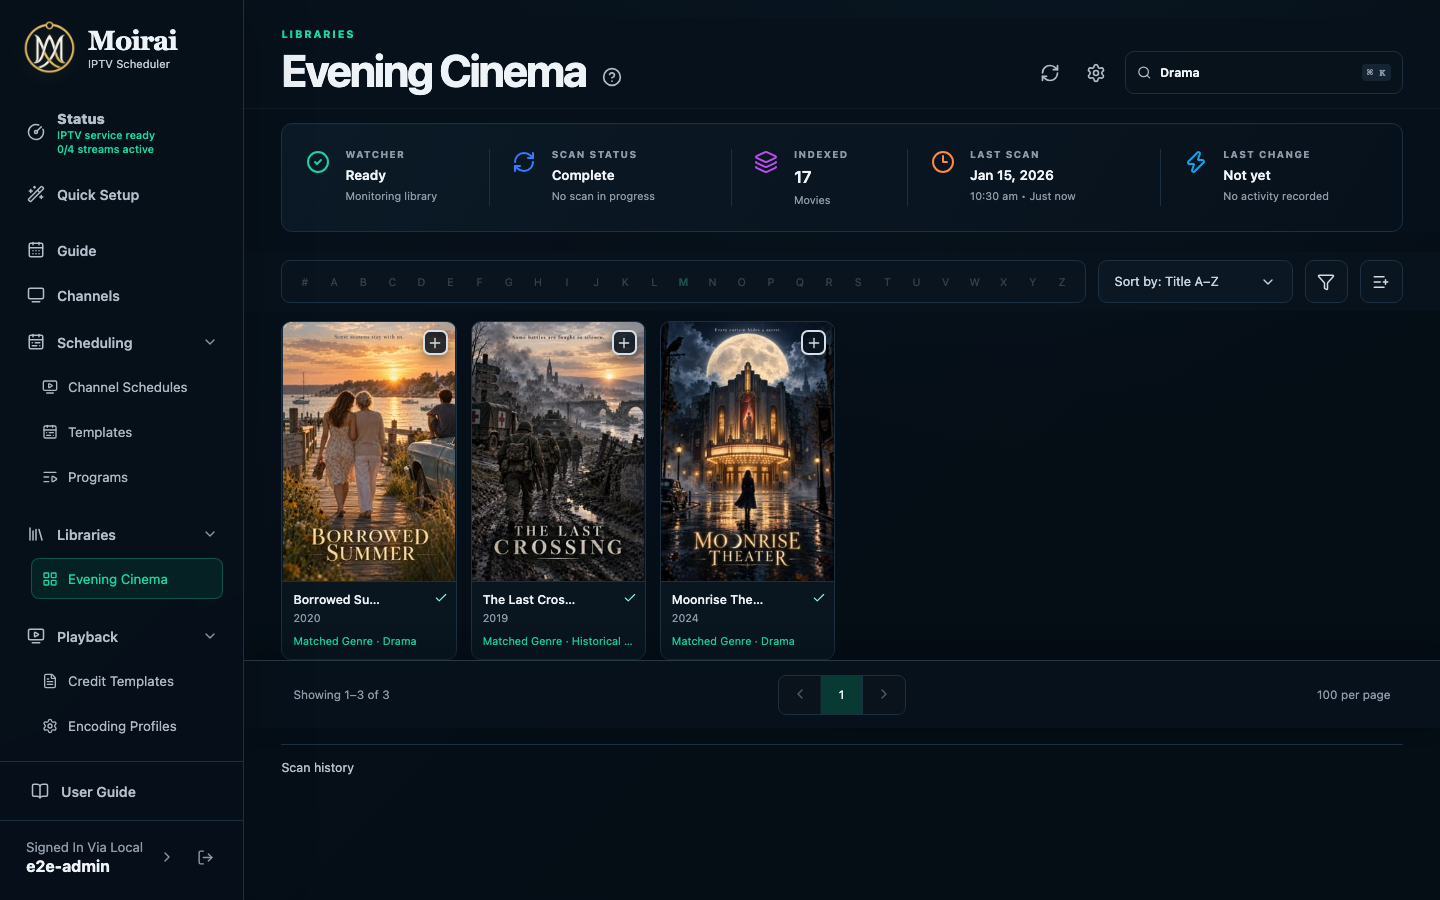
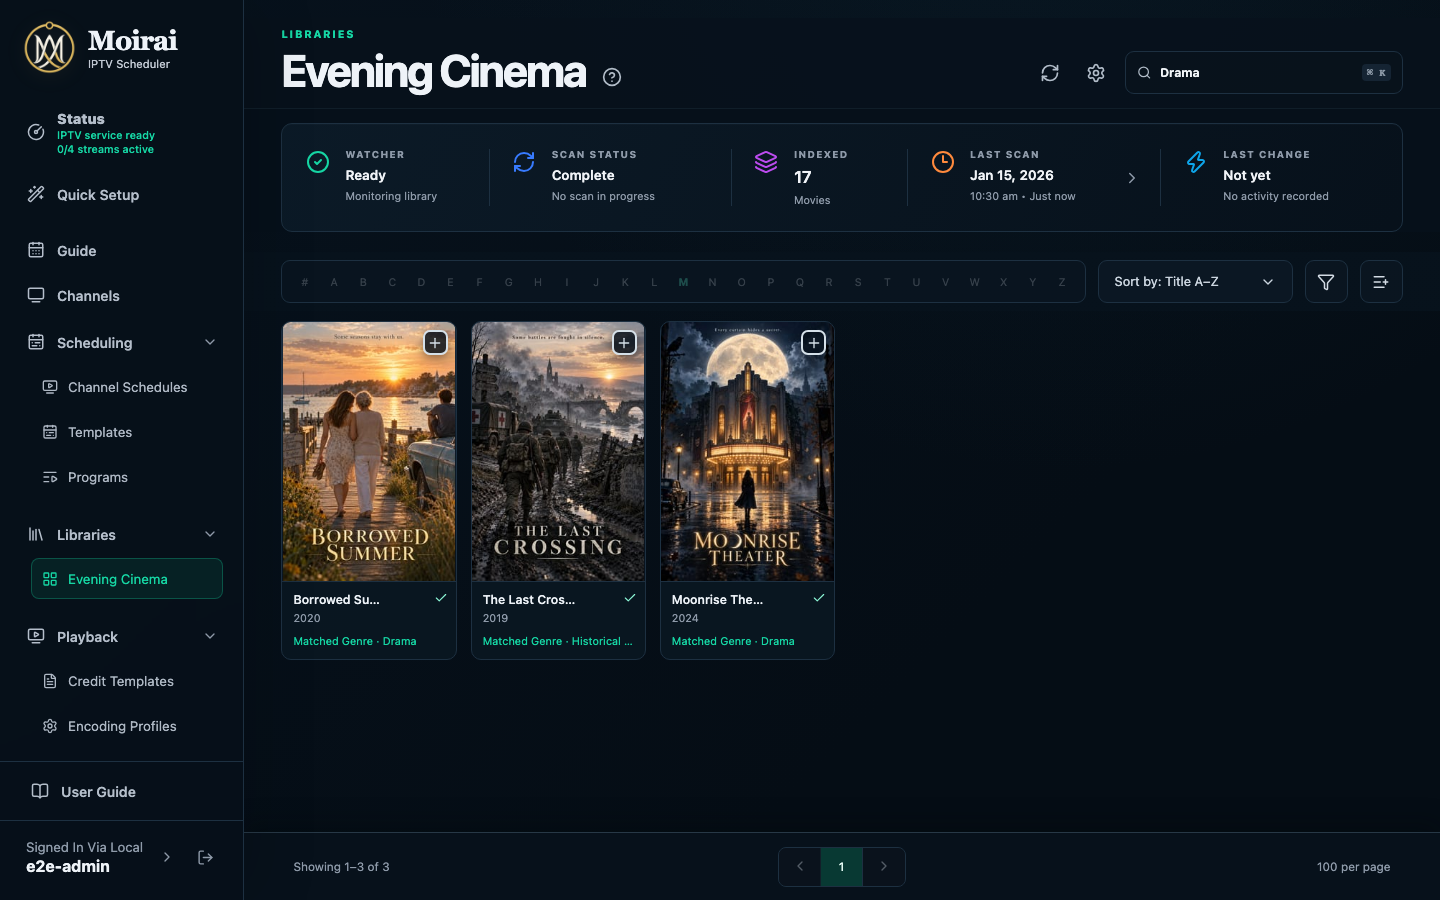
Moved scan history into dialog behind scan status

diff --git a/apps/web/src/views/LibraryPage.vue b/apps/web/src/views/LibraryPage.vue
@@ -61,7 +61,7 @@ import {
 } from '../catalog-virtualization';
 import LoadingState from '../components/LoadingState.vue';
 import ActionMenu from '../components/ActionMenu.vue';
-import AnimatedDisclosure from '../components/AnimatedDisclosure.vue';
+import LibraryScanHistoryModal from '../components/library/LibraryScanHistoryModal.vue';
 import TransientToast from '../components/TransientToast.vue';
 import LibraryFilterModal from '../components/library/LibraryFilterModal.vue';
 import LibrarySettingsModal from '../components/library/LibrarySettingsModal.vue';
@@ -72,7 +72,6 @@ import {
 	type LibraryFilterDraft,
 } from '../components/library/library-filter';
 import LibraryReconciliationModal from '../components/library/LibraryReconciliationModal.vue';
-import StatusPill from '../components/StatusPill.vue';
 import AddItemsToProgramModal from '../components/programs/AddItemsToProgramModal.vue';
 import ProgramAdditionToast from '../components/programs/ProgramAdditionToast.vue';
 import { liveEvents } from '../live-events';
@@ -87,7 +86,7 @@ const librariesStore = useLibrariesStore();
 const id = computed(() => String(route.params.id));
 const library = ref<Library>();
 const scans = ref<ScanRun[]>([]);
-const scanHistoryOpen = useDisclosureState('library-scan-history', false);
+const scanHistoryOpen = ref(false);
 const filterModalInstance = ref(0);
 const reconciliation = ref<LibraryReconciliation>();
 const genres = ref<MediaGenreFacet[]>([]);
@@ -1132,6 +1131,7 @@ watch(searchText, (value) => {
 });
 watch(id, () => {
 	// Discard actions captured for the previous library before loading the new route.
+	scanHistoryOpen.value = false;
 	resetSelectionToolbar();
 	selectionToolbarMotionActive.value = false;
 	selectedIds.value = [];
@@ -1270,10 +1270,11 @@ onUnmounted(() => {
 					<span class="status-icon"><Layers3 :size="24" /></span>
 					<div><span>Indexed</span><strong>{{ library.itemCount.toLocaleString() }}</strong><small>{{ typeLabel }}</small></div>
 				</div>
-				<div class="status-stat status-last-scan">
+				<button type="button" class="status-stat status-last-scan" aria-label="Last scan: open scan history" aria-haspopup="dialog" @click="scanHistoryOpen = true">
 					<span class="status-icon"><Clock3 :size="24" /></span>
 					<div><span>Last scan</span><strong>{{ formatDate(library.lastScanCompletedAt) }}</strong><small>{{ formatActivityTime(library.lastScanCompletedAt) }}</small></div>
-				</div>
+					<ChevronRight class="status-disclosure" :size="18" aria-hidden="true" />
+				</button>
 				<div class="status-stat status-change">
 					<span class="status-icon"><Zap :size="24" /></span>
 					<div><span>Last change</span><strong>{{ formatDate(library.lastChangeDetectedAt) }}</strong><small>{{ formatActivityTime(library.lastChangeDetectedAt) }}</small></div>
@@ -1408,7 +1409,7 @@ onUnmounted(() => {
 			<span>{{ pagination.pageSize }} per page</span>
 		</footer>
 
-		<AnimatedDisclosure v-model="scanHistoryOpen" class="diagnostics"><template #summary><span>Scan history</span></template><article v-for="run in scans" :key="run.id"><StatusPill :value="run.status" /><span>{{ new Date(run.startedAt).toLocaleString() }}</span><span>{{ run.discoveredCount }} found · {{ run.changedCount }} changed · {{ run.removedCount }} removed</span><ul v-if="run.issues.length"><li v-for="issue in run.issues" :key="`${issue.code}:${issue.path}`">{{ issue.code }} — {{ issue.path ?? issue.message }}</li></ul></article></AnimatedDisclosure>
+		<LibraryScanHistoryModal v-if="scanHistoryOpen" :scans="scans" @close="scanHistoryOpen = false" />
 
 		<LibraryReconciliationModal v-if="showReconciliation && reconciliation" :reconciliation="reconciliation" :busy="reconciliationBusy" @close="showReconciliation = false" @scan="scan" @reconcile="reconcile" />
 		<LibrarySettingsModal v-if="showSettings" :library="library" @close="showSettings = false" @saved="finishSettings" @deleted="finishDeletion" />

diff --git a/tests/e2e/app.spec.ts b/tests/e2e/app.spec.ts
@@ -78,15 +78,14 @@ test('indexes a library and creates a channel', async ({ page }) => {
 	await expect(page.locator('.library-status-panel')).toContainText('Indexed');
 	await expect(page.getByRole('button', { name: 'B', exact: true })).toHaveClass(/active/);
 	await expect(page.locator('.catalog-footer')).toContainText('100 per page');
-	const scanHistoryToggle = page.getByRole('button', { name: 'Scan history' });
-	const firstScanHistoryEntry = page.locator('.diagnostics article').first();
-	await expect(scanHistoryToggle).toHaveAttribute('aria-expanded', 'false');
-	await expect(firstScanHistoryEntry).toBeHidden();
+	const scanHistoryToggle = page.getByRole('button', { name: 'Last scan: open scan history' });
+	const scanHistoryDialog = page.getByRole('dialog', { name: 'Scan history' });
+	await expect(scanHistoryDialog).toBeHidden();
 	await scanHistoryToggle.click();
-	await expect(scanHistoryToggle).toHaveAttribute('aria-expanded', 'true');
-	await expect(firstScanHistoryEntry).toBeVisible();
-	await scanHistoryToggle.click();
-	await expect(firstScanHistoryEntry).toBeHidden();
+	await expect(scanHistoryDialog.locator('article').first()).toBeVisible();
+	await page.keyboard.press('Escape');
+	await expect(scanHistoryDialog).toBeHidden();
+	await expect(scanHistoryToggle).toBeFocused();
 	const syncButton = page.getByRole('button', { name: 'Sync library' });
 	const settingsButton = page.getByRole('button', { name: 'Library settings' });
 	const libraryHeaderSearch = page.getByRole('textbox', { name: new RegExp(`Search ${libraryName}`) });
@@ -756,7 +755,7 @@ test('indexes a library and creates a channel', async ({ page }) => {
 	await expect(page.getByRole('button', { name: 'Add Selected' })).toBeDisabled();
 	await expect(page.locator('.catalog-controls-stack')).toHaveCSS('position', 'sticky');
 	await expect(page.getByRole('toolbar', { name: 'Item selection' })).toHaveCSS('background-color', 'rgb(8, 43, 37)');
-	await expect(page.locator('.catalog-footer')).toHaveCSS('position', 'sticky');
+	await expect(page.locator('.catalog-footer')).toHaveCSS('position', 'fixed');
 	await expect(page.locator('.catalog-footer')).toHaveCSS('border-radius', '0px');
 	const appContentBounds = await page.locator('.app-content').boundingBox();
 	const catalogFooterBounds = await page.locator('.catalog-footer').boundingBox();

diff --git a/tests/e2e/user-documentation.spec.ts b/tests/e2e/user-documentation.spec.ts
@@ -37,6 +37,32 @@ test('captures setup and authentication', async ({ page }) => {
 test('captures libraries and scanning', async ({ page, documentationServer }) => {
 	const { libraryId, mediaRoot } = await seedLibrary(page, documentationServer.directory, true);
 	await capture(page, 'library-catalog.png');
+	const historyTrigger = page.getByRole('button', { name: 'Last scan: open scan history' });
+	await historyTrigger.click();
+	const history = page.getByRole('dialog', { name: 'Scan history' });
+	await expect(history.locator('article').first()).toBeVisible();
+	await capture(page, 'library-scan-history.png');
+	await page.keyboard.press('Escape');
+	await expect(history).toBeHidden();
+	await expect(historyTrigger).toBeFocused();
+	await historyTrigger.press('Enter');
+	await history.getByRole('button', { name: 'Close scan history' }).click();
+	await expect(history).toBeHidden();
+
+	// The footer stays at the viewport edge at either end of the catalog on desktop and mobile.
+	for (const viewport of [{ width: 1440, height: 900 }, { width: 390, height: 844 }]) {
+		await page.setViewportSize(viewport);
+		for (const bottom of [false, true]) {
+			await page.evaluate((atBottom) => window.scrollTo({ top: atBottom ? document.body.scrollHeight : 0, behavior: 'instant' }), bottom);
+			await expect.poll(async () => {
+				const bounds = await page.locator('.catalog-footer').boundingBox();
+				return bounds ? Math.abs(bounds.y + bounds.height - viewport.height) : Infinity;
+			}).toBeLessThan(2);
+			await expect(page.getByRole('button', { name: 'Next page', exact: true })).toBeVisible();
+		}
+	}
+	await page.setViewportSize({ width: 1440, height: 900 });
+
 	await page.goto(`/libraries/${libraryId}?q=Drama`);
 	await expect(page.locator('.media-card-match').first()).toContainText('Genre');
 	await capture(page, 'library-search.png');

diff --git a/apps/web/src/components/library/LibraryScanHistoryModal.vue b/apps/web/src/components/library/LibraryScanHistoryModal.vue
@@ -1,0 +1,35 @@
+<script setup lang="ts">
+import type { ScanRun } from '@moirai/shared';
+import { useAnimatedDismissal } from '../../motion';
+import ResourceEditorHeader from '../ResourceEditorHeader.vue';
+import StatusPill from '../StatusPill.vue';
+
+defineProps<{ scans: ScanRun[] }>();
+const emit = defineEmits<{ close: [] }>();
+const { visible, requestClose, finishClose } = useAnimatedDismissal(() => emit('close'));
+</script>
+
+<template>
+	<Transition name="moirai-overlay" appear @after-leave="finishClose">
+		<div v-show="visible" class="moirai-dialog-backdrop" :inert="!visible" :aria-hidden="!visible" @click.self="requestClose">
+			<section v-modal-focus="{ escape: requestClose }" class="moirai-dialog resource-editor-modal library-scan-history-modal" role="dialog" aria-modal="true" aria-labelledby="scan-history-title">
+				<ResourceEditorHeader close-label="Close scan history" @close="requestClose">
+					<h2 id="scan-history-title">Scan history</h2>
+				</ResourceEditorHeader>
+				<div class="resource-editor-scroll">
+					<div v-if="scans.length" class="diagnostics">
+						<article v-for="run in scans" :key="run.id">
+							<StatusPill :value="run.status" />
+							<span>{{ new Date(run.startedAt).toLocaleString() }}</span>
+							<span>{{ run.discoveredCount }} found · {{ run.changedCount }} changed · {{ run.removedCount }} removed</span>
+							<ul v-if="run.issues.length">
+								<li v-for="issue in run.issues" :key="`${issue.code}:${issue.path}`">{{ issue.code }} — {{ issue.path ?? issue.message }}</li>
+							</ul>
+						</article>
+					</div>
+					<p v-else class="empty-state">No scans have been recorded for this library.</p>
+				</div>
+			</section>
+		</div>
+	</Transition>
+</template>

diff --git a/apps/web/src/styles/_library.scss b/apps/web/src/styles/_library.scss
@@ -2,6 +2,8 @@
 	--app-header-offset: 0px;
 	--library-header-height: 0px;
 	--catalog-controls-height: 0px;
+	--catalog-footer-height: 68px;
+	padding-bottom: calc(var(--catalog-footer-height) + env(safe-area-inset-bottom));
 }
 
 .library-page-header {
@@ -1031,13 +1033,14 @@ a.media-card {
 }
 
 .catalog-footer {
-	position: sticky;
+	position: fixed;
+	left: var(--app-sidebar-width);
+	right: 0;
 	bottom: 0;
 	z-index: 14;
-	min-height: 68px;
-	width: calc(100% + var(--app-content-inline-padding) + var(--app-content-inline-padding));
-	margin-inline: calc(0px - var(--app-content-inline-padding));
+	min-height: calc(var(--catalog-footer-height) + env(safe-area-inset-bottom));
 	padding: 12px calc(12px + var(--app-content-inline-padding));
+	padding-bottom: calc(12px + env(safe-area-inset-bottom));
 	display: grid;
 	grid-template-columns: 1fr auto 1fr;
 	align-items: center;
@@ -1136,4 +1139,25 @@ a.media-card {
 	line-height: 1.4;
 	text-overflow: ellipsis;
 	white-space: nowrap;
+}
+
+.status-last-scan {
+	grid-template-columns: 31px minmax(0, 1fr) 18px;
+	border: 0;
+	border-right: 1px solid var(--line);
+	border-radius: 0;
+	color: inherit;
+	background: transparent;
+	text-align: left;
+	cursor: pointer;
+}
+
+.status-last-scan:hover,
+.status-last-scan:focus-visible {
+	background: rgba(255, 255, 255, 0.04);
+}
+
+.status-disclosure {
+	align-self: center;
+	color: var(--muted);
 }

diff --git a/apps/web/src/styles/_responsive.scss b/apps/web/src/styles/_responsive.scss
@@ -167,6 +167,7 @@
 	}
 
 	.app-shell {
+		--app-sidebar-width: 0px;
 		display: block;
 	}
 
@@ -629,16 +630,26 @@
 		gap: 10px;
 	}
 
+	.library-page {
+		--catalog-footer-height: 104px;
+	}
+
 	.catalog-footer {
 		grid-template-columns: 1fr;
+		justify-items: center;
+		gap: 8px;
 	}
 
 	.catalog-footer > :last-child {
-		justify-self: start;
+		display: none;
 	}
 
 	.pagination-placeholder {
 		display: none;
+	}
+
+	.catalog-footer .pagination-placeholder {
+		display: inline-flex;
 	}
 
 	.form-grid,

diff --git a/apps/web/src/styles/_library-admin.scss b/apps/web/src/styles/_library-admin.scss
@@ -1,14 +1,17 @@
+.library-scan-history-modal {
+	width: min(900px, 100%);
+}
+
+.library-scan-history-modal .diagnostics {
+	margin-top: 0;
+	border-top: 0;
+	overflow-wrap: anywhere;
+}
+
 .diagnostics {
 	margin-top: 16px;
 	border-top: 1px solid var(--line);
 	color: var(--muted);
-}
-
-.diagnostics .animated-disclosure-trigger {
-	cursor: pointer;
-	padding: 15px 0;
-	color: #b8c3ce;
-	font-size: 0.78rem;
 }
 
 .diagnostics article {

diff --git a/apps/web/src/styles/_foundation.scss b/apps/web/src/styles/_foundation.scss
@@ -248,9 +248,10 @@ small {
 }
 
 .app-shell {
+	--app-sidebar-width: 244px;
 	min-height: 100vh;
 	display: grid;
-	grid-template-columns: 244px minmax(0, 1fr);
+	grid-template-columns: var(--app-sidebar-width) minmax(0, 1fr);
 }
 
 .sidebar {

diff --git a/tests/e2e/documentation/publish.ts b/tests/e2e/documentation/publish.ts
@@ -36,6 +36,7 @@ export const screenshotNames = [
 	'libraries.png',
 	'library-create.png',
 	'library-catalog.png',
+	'library-scan-history.png',
 	'library-search.png',
 	'library-filters.png',
 	'library-offline.png',

diff --git a/apps/docs/src/libraries/managing-libraries.md b/apps/docs/src/libraries/managing-libraries.md
@@ -21,12 +21,12 @@ See [Media file naming](/libraries/media-file-naming) for recommended movie and 
 
 Direct streaming from media center software such as Jellyfin, Plex, Emby, and similar services is not currently supported. Make the underlying media files available to Moirai through a filesystem path instead, such as a folder mounted into its Docker container.
 
-The first scan can take time for a large collection. A source watcher handles ordinary additions and changes afterward. Use ![Sync library](/icons/refresh-cw.svg) when you want an immediate full scan.
-
-Opening a library shows watcher health, the indexed count, scan history, and its catalog. A scan may finish with warnings even when most media was indexed successfully. Review the library diagnostics before changing a schedule that depends on missing items.
-
-After scanning, the catalog displays the indexed media with its posters and titles. This example shows a populated library with 17 movies and a completed scan.
+The first scan can take time for a large collection. A source watcher handles ordinary additions and changes afterward. Use ![Sync library](/icons/refresh-cw.svg) when you want an immediate full scan. After scanning, the catalog displays the indexed media with its posters and titles.
 
 ![Evening Cinema library with 17 indexed movies, poster artwork, and scan status](/screenshots/library-catalog.png)
+
+At the top of the library screen you can see watcher health, the indexed count, scan history, and its most recent change. A scan may finish with warnings even when most media was indexed successfully. Click or tap **Last scan** at the top of the library to open **Scan history**, including scan results, item counts, and recorded issues. Review those issues before changing a schedule that depends on missing items.
+
+![Scan history dialog with completed scan results](/screenshots/library-scan-history.png)
 
 Library settings can change the display name or source path. A path change is staged for safety when it could make many existing items appear to have disappeared.

diff --git a/docs/technical-outline.md b/docs/technical-outline.md
@@ -429,7 +429,9 @@ requiring approval, provided the paths and content remain consistent.
 
 If the process stops during a scan, startup marks that scan failed and schedules a recovery scan for
 the enabled library. Completed scan history is retained for 30 days or 2,000 entries per library by
-default. Running scans are never pruned.
+default. Running scans are never pruned. The library’s Last scan status block opens a scrollable
+scan-history dialog with results, counts, and retained issues. Catalog pagination stays pinned
+to the viewport bottom on desktop and mobile, with space reserved below the media list.
 
 ### Scheduling during outages
 
